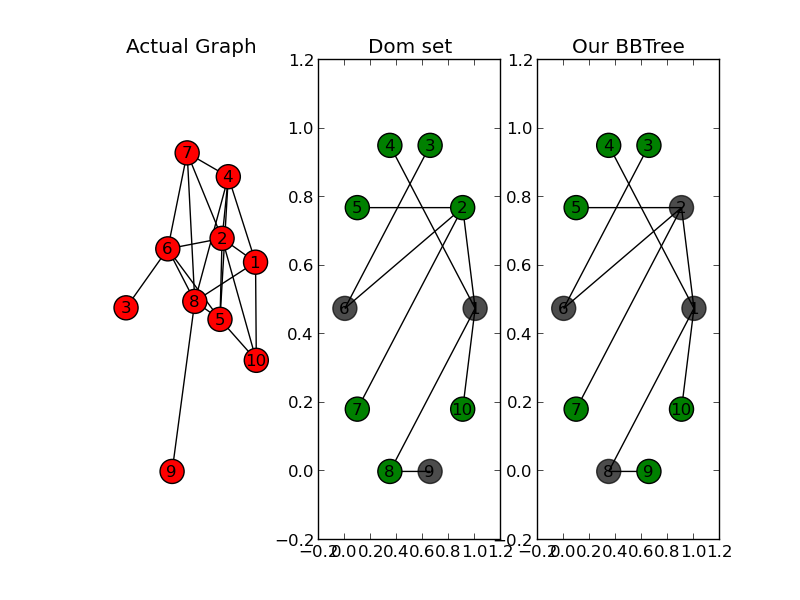
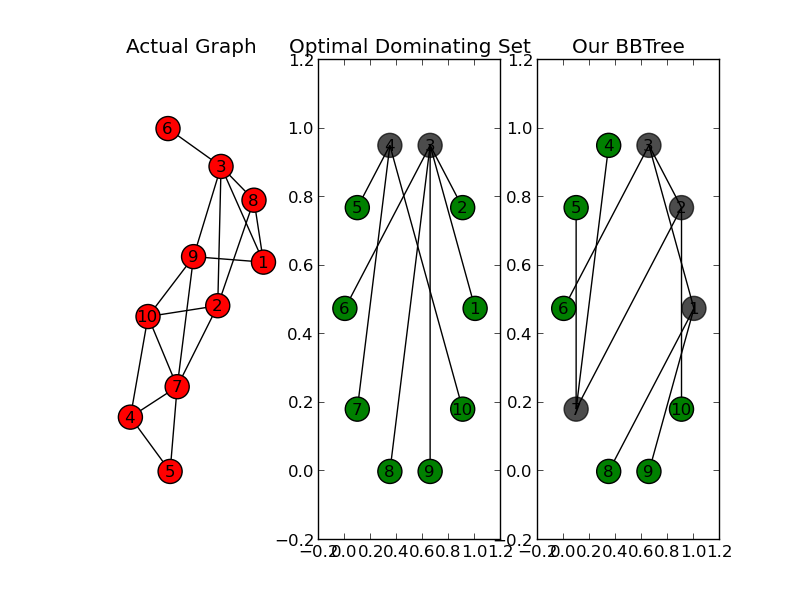
Adding all codes

diff --git a/apps/BBConstruction/testscript.py b/apps/BBConstruction/testscript.py
@@ -1,3 +1,4 @@
+ 
 # Authors : Tharun and Mohammad
 # Testscript for GreenBlink Application 
 
@@ -117,14 +118,16 @@ def simulate(debug = False, noise_model = "meyer-heavy.txt"):
     pos = nx.circular_layout(bb_tree)
 
     #dominating set from openopt
-    ds_tree = nx.Graph()
-    ds_tree.add_nodes_from(all_nodes)
-    ds_tree.add_edges_from(edge_list)
-    pos_ds = nx.circular_layout(ds_tree)
     p = DSP(main_graph)
     r = p.solve('interalg', iprint=0)
     dom_set = set(r.solution)
     non_dom = all_nodes - dom_set
+
+    ds_tree = nx.Graph()
+    ds_tree.add_nodes_from(all_nodes)
+    for node in dom_set:
+        ds_tree.add_edges_from(nx.edges(main_graph, nbunch = node))
+    pos_ds = nx.circular_layout(ds_tree)
     
     # plotting all the graph in one figure
     plt.subplot(131)
@@ -141,7 +144,7 @@ def simulate(debug = False, noise_model = "meyer-heavy.txt"):
     #drawing edges and labels
     nx.draw_networkx_edges(ds_tree, pos_ds)
     nx.draw_networkx_labels(ds_tree,pos_ds)
-    plt.title("Dominating Set")
+    plt.title("Optimal Dominating Set")
     plt.subplot(133)
     # draw nodes
     nx.draw_networkx_nodes(bb_tree,pos,
